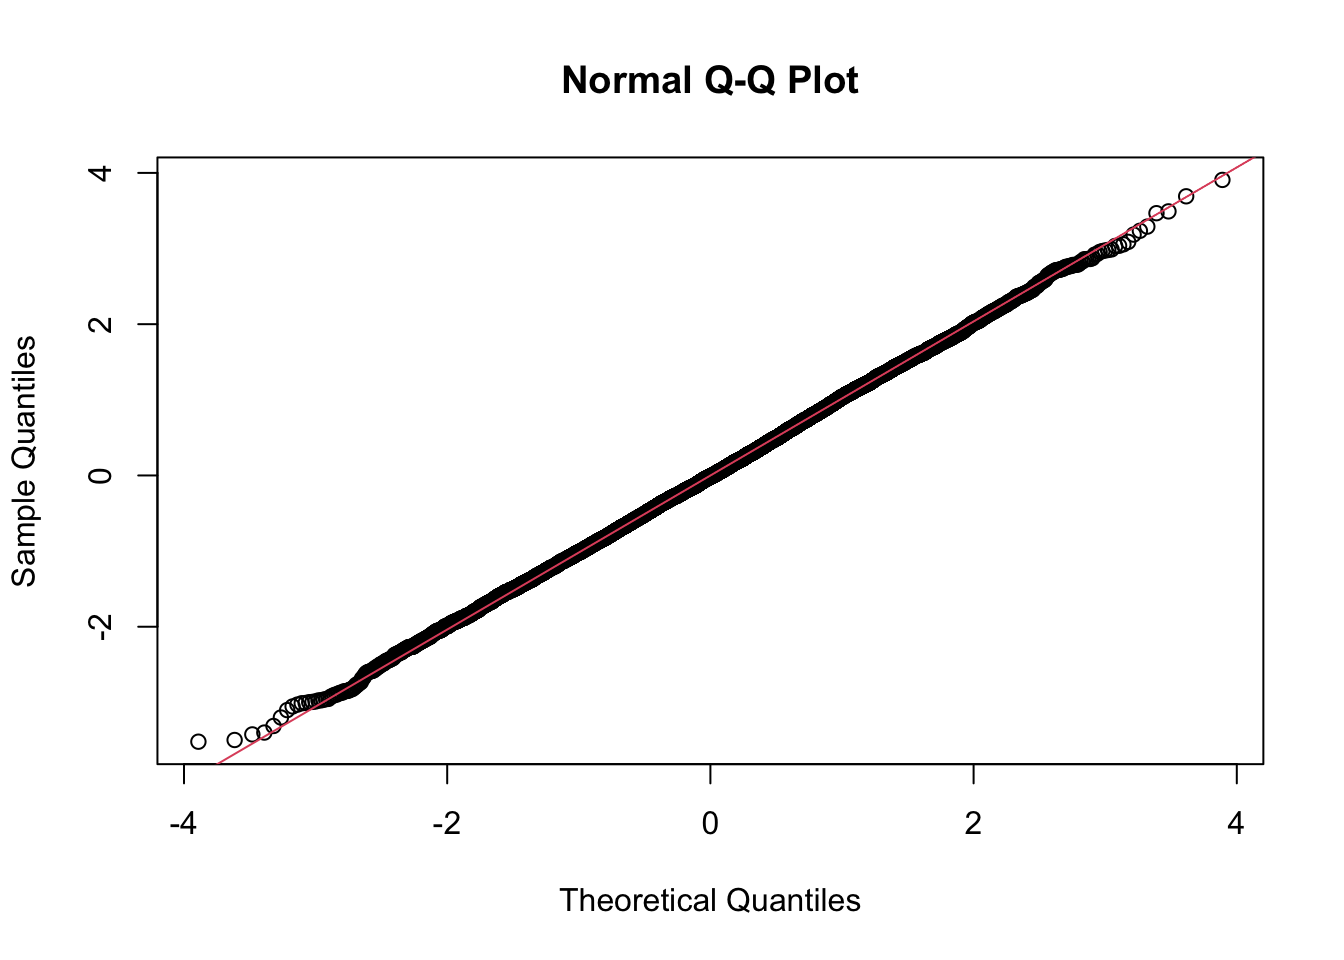
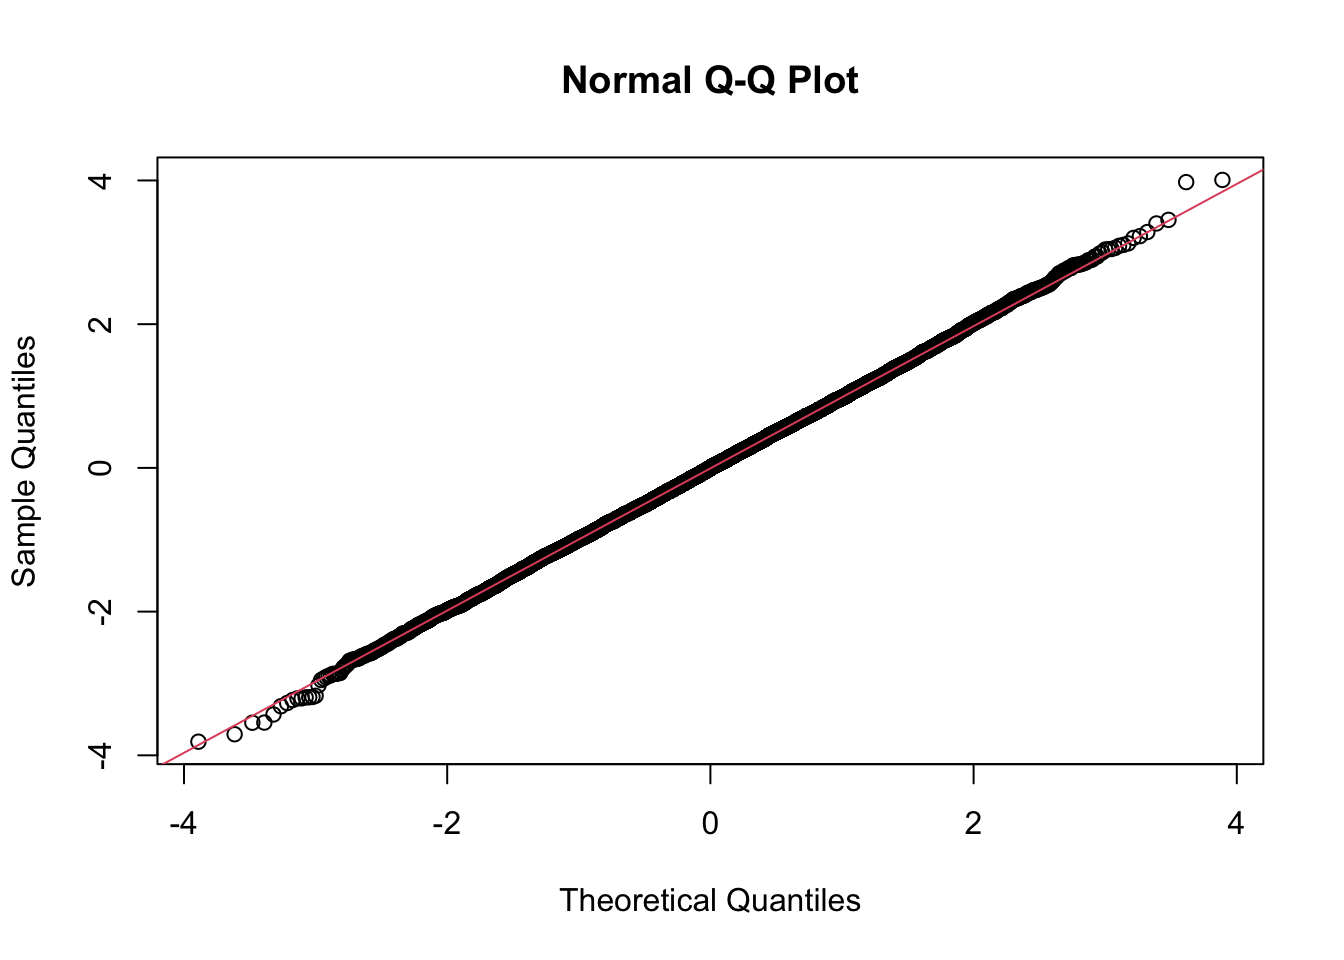
jonathanbratt published a site update

diff --git a/estimates-of-variability.html b/estimates-of-variability.html
@@ -314,17 +314,17 @@ code span.wa { color: #60a0b0; font-weight: bold; font-style: italic; } /* Warni
 <span id="cb27-2"><a href="estimates-of-variability.html#cb27-2"></a>y &lt;-<span class="st"> </span><span class="kw">rnorm</span>(<span class="dv">100</span>, <span class="dt">mean =</span> <span class="dv">50</span>, <span class="dt">sd =</span> <span class="dv">20</span>)</span>
 <span id="cb27-3"><a href="estimates-of-variability.html#cb27-3"></a><span class="kw">quantile</span>(x, <span class="dt">probs =</span> <span class="kw">seq</span>(<span class="dv">0</span>, <span class="dv">1</span>, <span class="fl">0.1</span>))</span></code></pre></div>
 <pre><code>##    0%   10%   20%   30%   40%   50%   60%   70%   80%   90%  100% 
-##   1.0  22.8  29.0  40.0  48.6  57.5  71.4  82.9  89.0  93.0 100.0</code></pre>
+##   7.0  13.9  23.8  30.7  44.6  51.0  58.0  69.0  78.2  89.0 100.0</code></pre>
 <div class="sourceCode" id="cb29"><pre class="sourceCode r"><code class="sourceCode r"><span id="cb29-1"><a href="estimates-of-variability.html#cb29-1"></a><span class="kw">quantile</span>(y, <span class="dt">probs =</span> <span class="kw">seq</span>(<span class="dv">0</span>, <span class="dv">1</span>, <span class="fl">0.1</span>))</span></code></pre></div>
 <pre><code>##         0%        10%        20%        30%        40%        50%        60% 
-##   3.354361  21.052388  30.773052  38.717211  46.915686  52.017919  54.707215 
+##  -0.610654  26.549447  34.040462  39.342754  43.923081  47.470683  51.543901 
 ##        70%        80%        90%       100% 
-##  57.268455  61.104643  70.414302 103.523073</code></pre>
+##  57.870107  65.309229  78.016405 101.387923</code></pre>
 <div class="sourceCode" id="cb31"><pre class="sourceCode r"><code class="sourceCode r"><span id="cb31-1"><a href="estimates-of-variability.html#cb31-1"></a><span class="kw">quantile</span>(x) <span class="co"># quartile</span></span></code></pre></div>
 <pre><code>##     0%    25%    50%    75%   100% 
-##   1.00  34.25  57.50  87.00 100.00</code></pre>
+##   7.00  26.75  51.00  74.25 100.00</code></pre>
 <div class="sourceCode" id="cb33"><pre class="sourceCode r"><code class="sourceCode r"><span id="cb33-1"><a href="estimates-of-variability.html#cb33-1"></a><span class="kw">IQR</span>(x) <span class="co"># They introduce this later but I like it here.</span></span></code></pre></div>
-<pre><code>## [1] 52.75</code></pre>
+<pre><code>## [1] 47.5</code></pre>
 </div>
 </div>
             </section>

diff --git a/meeting-videos-6.html b/meeting-videos-6.html
@@ -280,8 +280,7 @@ code span.wa { color: #60a0b0; font-weight: bold; font-style: italic; } /* Warni
 </iframe>
 <details>
 <p><summary> Meeting chat log </summary></p>
-<pre><code>00:24:32    Jon Harmon (jonthegeek):    p241 is the image.
-00:48:07    Jon Harmon (jonthegeek):    The link Jonathan references for a boosting definition: https://towardsdatascience.com/boosting-algorithms-explained-d38f56ef3f30 (will also be in the slides at r4ds.io/ps4ds this afternoon)</code></pre>
+<pre><code>00:24:32    Jon Harmon (jonthegeek):    p241 is the image.</code></pre>
 </details>
 
 </div>
